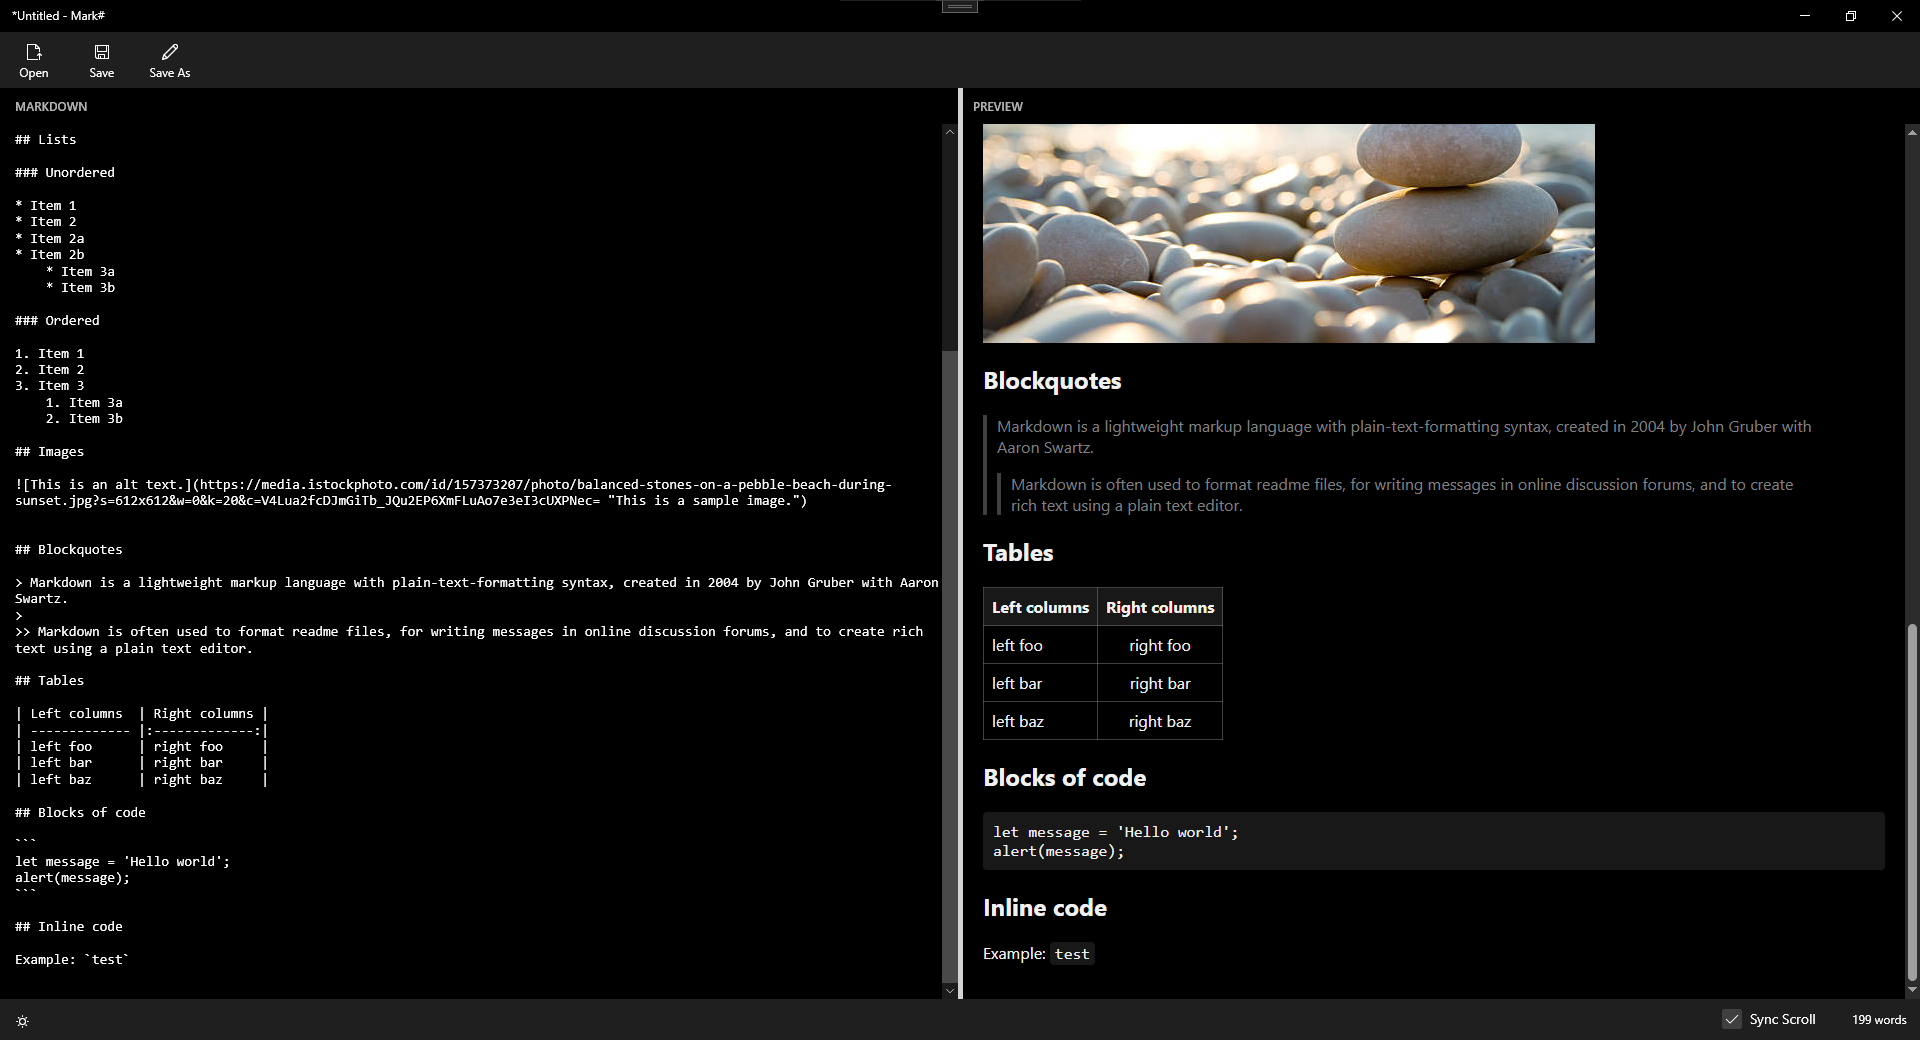
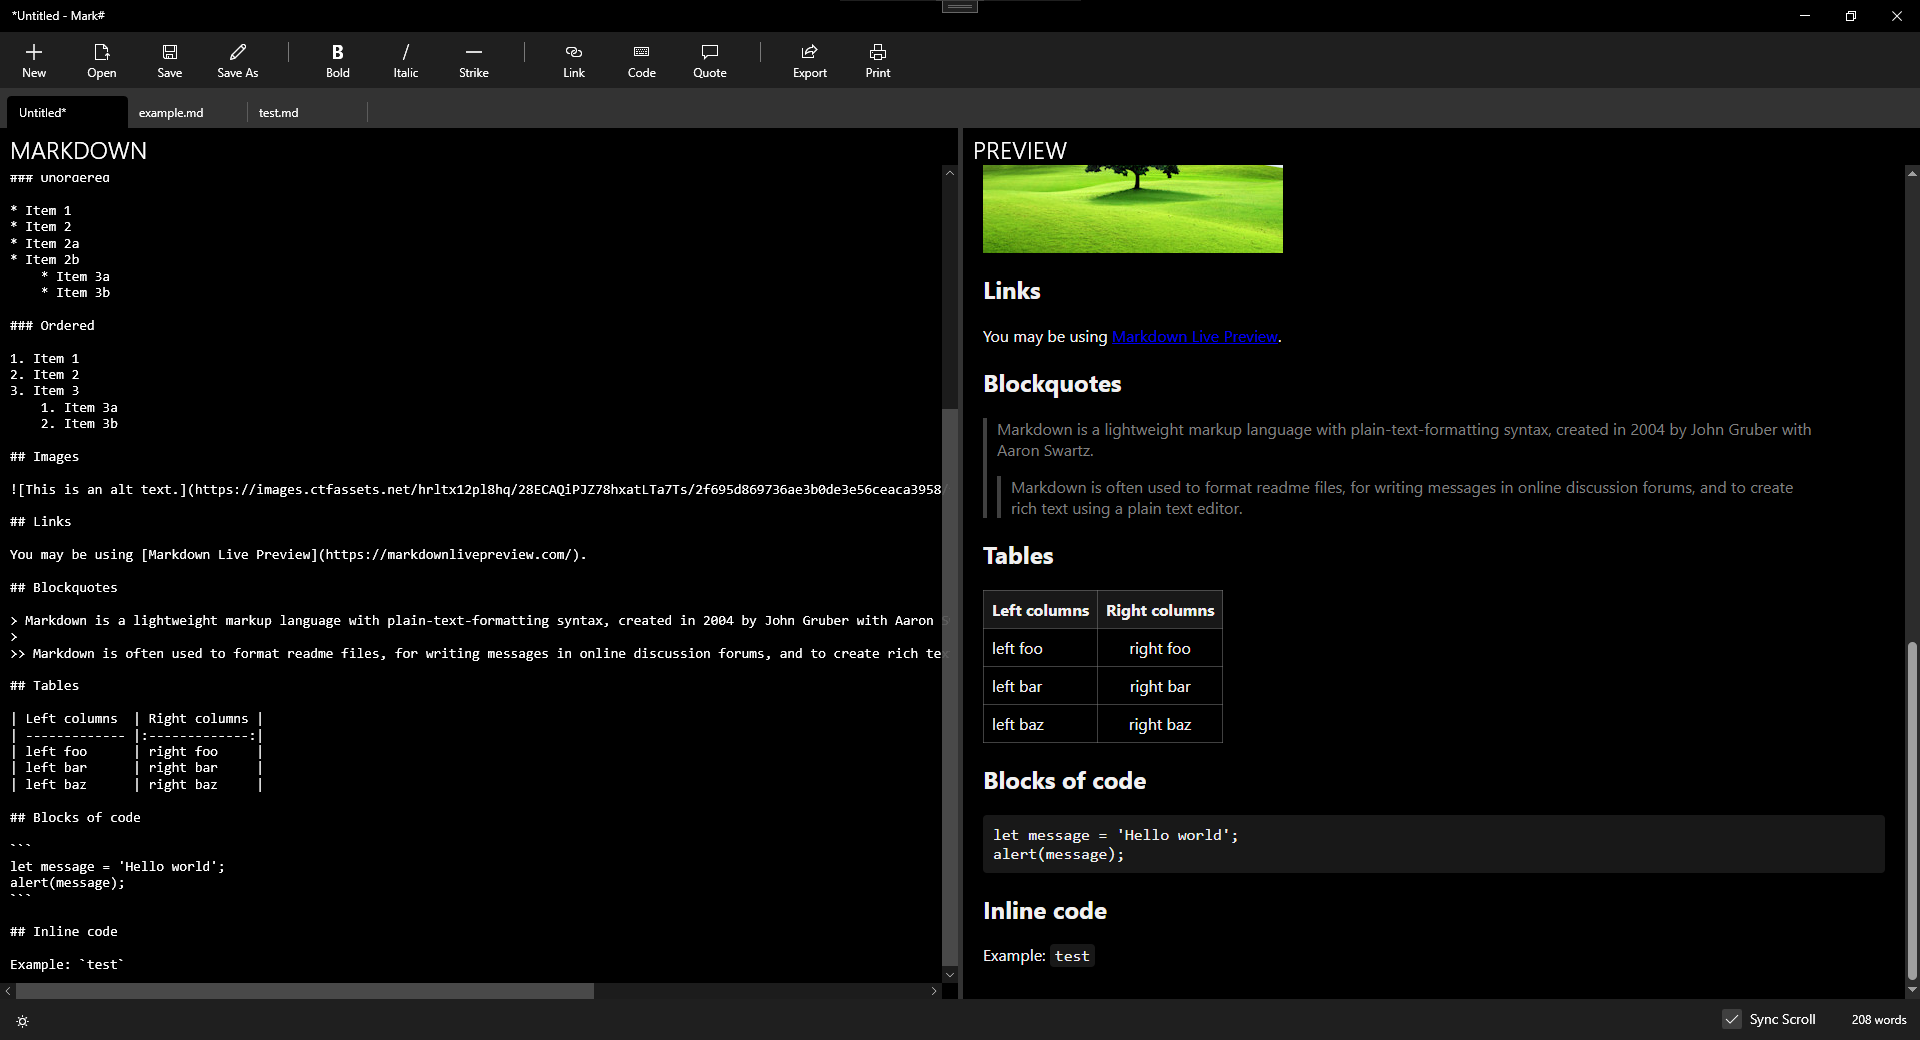
Add UI buttons and keyboard shortcuts for inline formatting (bold, italics, links, quotes)

diff --git a/MarkSharp/MainWindow.xaml b/MarkSharp/MainWindow.xaml
@@ -16,7 +16,7 @@
         <ui:CommandBar DockPanel.Dock="Top">
             <ui:CommandBar.Content>
                 <StackPanel Orientation="Horizontal">
-
+                    <!-- File operations -->
                     <ui:AppBarButton x:Name="NewFileButton"
                                      Cursor="Hand"
                                      Icon="Add"
@@ -48,22 +48,64 @@
                                      Label="Save As"
                                      ToolTip="Save As (Ctrl+Shift+S)"
                                      Click="SaveAsButton_Click" />
-                </StackPanel>
-            </ui:CommandBar.Content>
 
-            <ui:CommandBar.PrimaryCommands>
-                <ui:AppBarButton x:Name="ExportHtmlButton"
+                    <ui:AppBarSeparator/>
+
+                    <!-- Formatting -->
+                    <ui:AppBarButton x:Name="BoldButton" 
+                                     Icon="Bold" 
+                                     Label="Bold" 
+                                     ToolTip="Bold (Ctrl+B)" 
+                                     Click="BoldButton_Click"/>
+
+                    <ui:AppBarButton x:Name="ItalicButton" 
+                                     Icon="Italic" 
+                                     Label="Italic" 
+                                     ToolTip="Italic (Ctrl+I)" 
+                                     Click="ItalicButton_Click"/>
+
+                    <ui:AppBarButton x:Name="StrikethroughButton" 
+                                     Icon="Remove" 
+                                     Label="Strike" 
+                                     ToolTip="Strikethrough" 
+                                     Click="StrikethroughButton_Click"/>
+
+                    <ui:AppBarSeparator/>
+
+                    <ui:AppBarButton x:Name="LinkButton" 
+                                     Icon="Link" 
+                                     Label="Link" 
+                                     ToolTip="Insert Link (Ctrl+K)" 
+                                     Click="LinkButton_Click"/>
+
+                    <ui:AppBarButton x:Name="CodeButton" 
+                                     Icon="Keyboard" 
+                                     Label="Code" 
+                                     ToolTip="Insert Code" 
+                                     Click="CodeButton_Click"/>
+
+                    <ui:AppBarButton x:Name="QuoteButton" 
+                                     Icon="Message" 
+                                     Label="Quote" 
+                                     ToolTip="Blockquote" 
+                                     Click="QuoteButton_Click"/>
+
+                    <ui:AppBarSeparator/>
+
+                    <!-- Exporting -->
+                    <ui:AppBarButton x:Name="ExportHtmlButton"
                                  Icon="Share"
                                  Label="Export"
                                  ToolTip="Export as HTML (Ctrl+Shift+E)"
                                  Click="ExportHtmlButton_Click"/>
 
-                <ui:AppBarButton x:Name="PrintButton"
+                    <ui:AppBarButton x:Name="PrintButton"
                                  Icon="Print"
                                  Label="Print"
                                  ToolTip="Print to PDF (Ctrl+P)"
                                  Click="PrintButton_Click"/>
-            </ui:CommandBar.PrimaryCommands>
+                </StackPanel>
+            </ui:CommandBar.Content>
 
         </ui:CommandBar>
 

diff --git a/MarkSharp/EditorTab.xaml.cs b/MarkSharp/EditorTab.xaml.cs
@@ -163,7 +163,7 @@ namespace MarkSharp {
 
         private async void MarkdownTextBox_ScrollChanged(object sender, ScrollChangedEventArgs e) {
             if (!IsScrollSyncEnabled) return;
-            if (_isTextBoxScrolling) return;
+            if (_isTextBoxScrolling || _isPreviewScrolling) return;
 
             _isTextBoxScrolling = true;
 
@@ -240,6 +240,93 @@ namespace MarkSharp {
 
             PreviewBrowser.NavigateToString(finalHtml);
         }
+
+        public void WrapSelection(string prefix, string suffix)
+        {
+            int selectionStart = MarkdownTextBox.SelectionStart;
+            int selectionLength = MarkdownTextBox.SelectionLength;
+            string selectedText = MarkdownTextBox.SelectedText;
+
+            string newText = prefix + selectedText + suffix;
+
+            MarkdownTextBox.Text = MarkdownTextBox.Text.Remove(selectionStart, selectionLength).Insert(selectionStart, newText);
+
+            if (selectionLength > 0)
+            {
+                MarkdownTextBox.Select(selectionStart, newText.Length);
+            }
+            else
+            {
+                MarkdownTextBox.CaretIndex = selectionStart + prefix.Length;
+            }
+            MarkdownTextBox.Focus();
+        }
+
+        public void InsertLink()
+        {
+            int selectionStart = MarkdownTextBox.SelectionStart;
+            int selectionLength = MarkdownTextBox.SelectionLength;
+            string selectedText = MarkdownTextBox.SelectedText;
+
+            string prefix = "[";
+            string suffix = "](url)";
+
+            if (selectionLength == 0)
+            {
+                selectedText = "link text";
+            }
+
+            string newText = prefix + selectedText + suffix;
+
+            MarkdownTextBox.Text = MarkdownTextBox.Text.Remove(selectionStart, selectionLength).Insert(selectionStart, newText);
+
+            int urlStart = selectionStart + prefix.Length + selectedText.Length + 2;
+            MarkdownTextBox.Select(urlStart, "url".Length);
+            MarkdownTextBox.Focus();
+        }
+
+        public void ToggleBlockquote()
+        {
+            int caretIndex = MarkdownTextBox.CaretIndex;
+            int lineIndex = MarkdownTextBox.GetLineIndexFromCharacterIndex(caretIndex);
+            if (lineIndex < 0) return;
+
+            string currentLine = MarkdownTextBox.GetLineText(lineIndex);
+            int lineStart = MarkdownTextBox.GetCharacterIndexFromLineIndex(lineIndex);
+
+            string lineEnding = "";
+            if (currentLine.EndsWith("\r\n"))
+            {
+                lineEnding = "\r\n";
+                currentLine = currentLine.Substring(0, currentLine.Length - 2);
+            }
+            else if (currentLine.EndsWith("\n"))
+            {
+                lineEnding = "\n";
+                currentLine = currentLine.Substring(0, currentLine.Length - 1);
+            }
+
+            int lineLength = currentLine.Length + lineEnding.Length;
+
+            if (currentLine.Trim().StartsWith(">"))
+            {
+                string unquotedLine = currentLine.Replace(">", "").TrimStart();
+                MarkdownTextBox.Text = MarkdownTextBox.Text.Remove(lineStart, lineLength).Insert(lineStart, unquotedLine + lineEnding);
+                MarkdownTextBox.CaretIndex = Math.Max(lineStart, caretIndex - 2);
+            }
+            else
+            {
+                string quotedLine = $"> {currentLine}";
+                MarkdownTextBox.Text = MarkdownTextBox.Text.Remove(lineStart, lineLength).Insert(lineStart, quotedLine + lineEnding);
+                MarkdownTextBox.CaretIndex = caretIndex + 2;
+            }
+            MarkdownTextBox.Focus();
+        }
+
+        public void ToggleBold() => WrapSelection("**", "**");
+        public void ToggleItalic() => WrapSelection("*", "*");
+        public void ToggleStrikethrough() => WrapSelection("~~", "~~");
+        public void ToggleCode() => WrapSelection("`", "`");
 
         private void UpdateWordCount() {
             int wordCount = GetWordCount();

diff --git a/MarkSharp/MainWindow.xaml.cs b/MarkSharp/MainWindow.xaml.cs
@@ -143,6 +143,36 @@ namespace MarkSharp {
             UpdateWindowTitle();
         }
 
+        private void BoldButton_Click(object sender, RoutedEventArgs e)
+        {
+            GetActiveEditor()?.ToggleBold();
+        }
+
+        private void ItalicButton_Click(object sender, RoutedEventArgs e)
+        {
+            GetActiveEditor()?.ToggleItalic();
+        }
+
+        private void StrikethroughButton_Click(object sender, RoutedEventArgs e)
+        {
+            GetActiveEditor()?.ToggleStrikethrough();
+        }
+
+        private void LinkButton_Click(object sender, RoutedEventArgs e)
+        {
+            GetActiveEditor()?.InsertLink();
+        }
+
+        private void CodeButton_Click(object sender, RoutedEventArgs e)
+        {
+            GetActiveEditor()?.ToggleCode();
+        }
+
+        private void QuoteButton_Click(object sender, RoutedEventArgs e)
+        {
+            GetActiveEditor()?.ToggleBlockquote();
+        }
+
         private async void PrintButton_Click(object sender, RoutedEventArgs e)
         {
             var activeEditor = GetActiveEditor();
@@ -151,7 +181,7 @@ namespace MarkSharp {
             SaveFileDialog saveDialog = new SaveFileDialog
             {
                 Filter = "PDF Document (*.pdf)|*.pdf",
-                Title = "Print to PDF", // Changed title
+                Title = "Print to PDF",
                 FileName = Path.ChangeExtension(activeEditor.FileName, ".pdf")
             };
 
@@ -228,6 +258,7 @@ namespace MarkSharp {
 
             if (isCtrlPressed) {
                 switch (e.Key) {
+                    // File operations
                     case Key.N: // Ctrl+N
                         NewFileButton_Click(sender, e);
                         e.Handled = true;
@@ -245,14 +276,32 @@ namespace MarkSharp {
                             SaveButton_Click(sender, e);
                         e.Handled = true;
                         break;
-
                     case Key.W: // Ctrl+W
                         var activeTab = GetActiveTabItem();
-                        if (activeTab != null) {
+                        if (activeTab != null)
+                        {
                             CloseTab(activeTab);
                             e.Handled = true;
                         }
                         break;
+
+                    // Formatting
+                    case Key.B: // Ctrl+B
+                        GetActiveEditor()?.ToggleBold();
+                        e.Handled = true;
+                        break;
+
+                    case Key.I: // Ctrl+I
+                        GetActiveEditor()?.ToggleItalic();
+                        e.Handled = true;
+                        break;
+
+                    case Key.K: // Ctrl+K
+                        GetActiveEditor()?.InsertLink();
+                        e.Handled = true;
+                        break;
+
+                    // Export
                     case Key.P: // Ctrl+P
                         PrintButton_Click(sender, e);
                         e.Handled = true;
